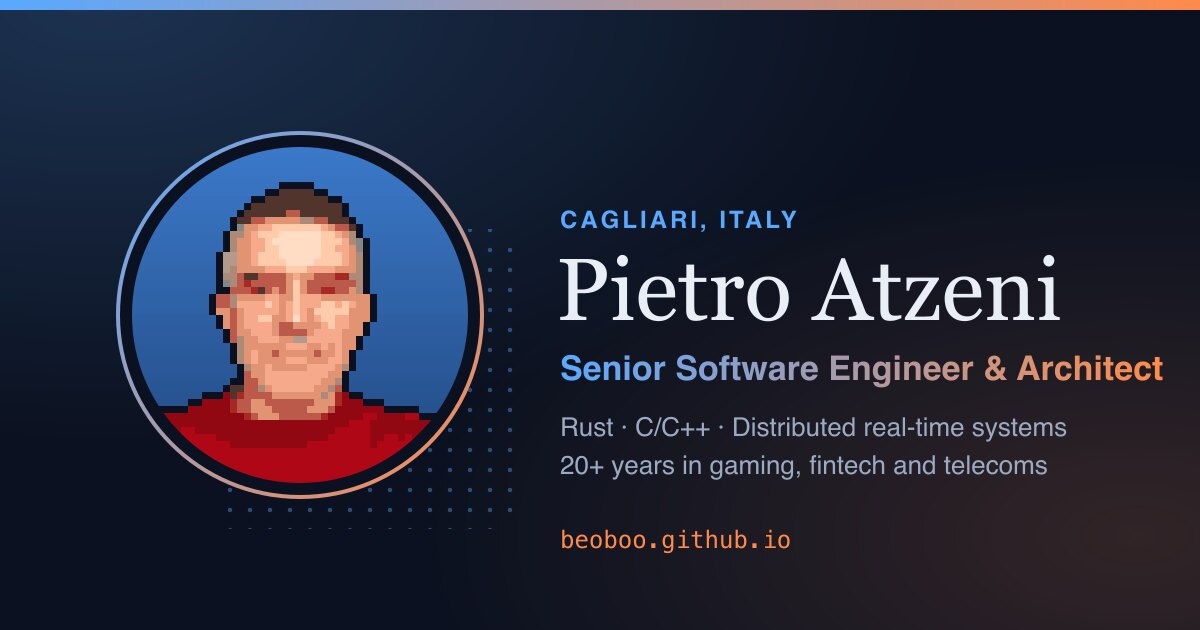
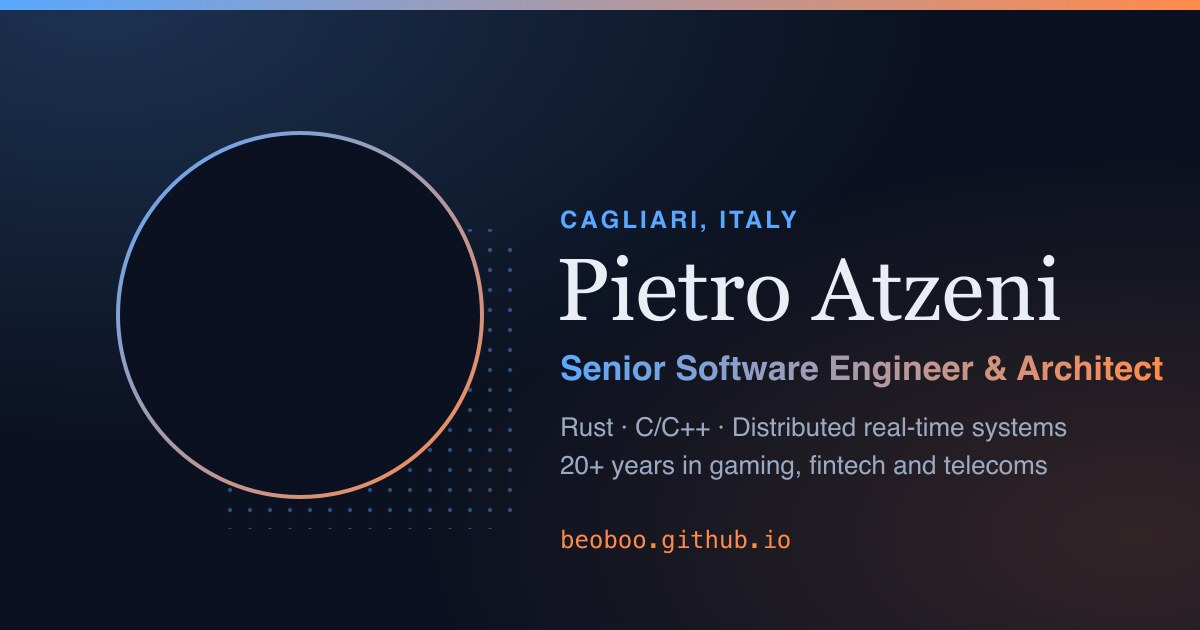
fix: the portrait shows the original picture instead of pixelating it again
The new profile picture is already pixel art, and loading it from
GitHub at 48 px and scaling it up in blocks pixelated it twice. The
page now shows the original (assets/picture.png, 1024 px, also the
GitHub profile picture) at full resolution, sharp on high-DPI screens,
scaled 10% so only the site's ring frames it. The social card and the
JSON-LD image use it too; the old pixel-avatar file and the avatar
host preconnect are gone.

Changed region(s): [[0.0925, 0.2111, 0.4008, 0.7841]]

diff --git a/index.html b/index.html
@@ -49,7 +49,7 @@
           "@id": "https://beoboo.github.io/#person",
           "name": "Pietro Atzeni",
           "url": "https://beoboo.github.io/",
-          "image": "https://avatars.githubusercontent.com/u/210002?v=4",
+          "image": "https://beoboo.github.io/assets/picture.png",
           "jobTitle": "Senior Software Engineer & Architect",
           "worksFor": { "@type": "Organization", "name": "Sophya Inc." },
           "address": { "@type": "PostalAddress", "addressLocality": "Cagliari", "addressCountry": "IT" },
@@ -71,7 +71,6 @@
   <!-- Fonts -->
   <link rel="preconnect" href="https://fonts.googleapis.com">
   <link rel="preconnect" href="https://fonts.gstatic.com" crossorigin>
-  <link rel="preconnect" href="https://avatars.githubusercontent.com">
   <link rel="stylesheet" href="https://fonts.googleapis.com/css2?family=DM+Serif+Display&family=Inter:wght@400;500;600&display=swap">
 
   <link rel="stylesheet" href="style.css">
@@ -146,11 +145,11 @@
           </ul>
         </div>
 
-        <!-- The GitHub profile picture (a 48-block pixel avatar) at 48 px, scaled up in crisp blocks; loaded from GitHub so the site follows it -->
+        <!-- The original of the GitHub profile picture (pixel art), at full resolution -->
         <div class="hero-portrait">
           <div class="portrait">
             <div class="portrait-frame">
-              <img src="https://avatars.githubusercontent.com/u/210002?v=4&amp;s=48" width="460" height="460" alt="Pixel-art avatar of Pietro Atzeni" fetchpriority="high" decoding="async">
+              <img src="assets/picture.png" width="1024" height="1024" alt="Pixel-art portrait of Pietro Atzeni" fetchpriority="high" decoding="async">
             </div>
           </div>
         </div>

diff --git a/style.css b/style.css
@@ -596,7 +596,7 @@ p {
 }
 
 .portrait-frame img {
-  image-rendering: pixelated;   /* a 48 px pixel avatar scaled up in crisp blocks */
+  transform: scale(1.1);   /* trims the picture's own round frame, so only the site's ring shows */
 }
 
 .portrait-frame img,
